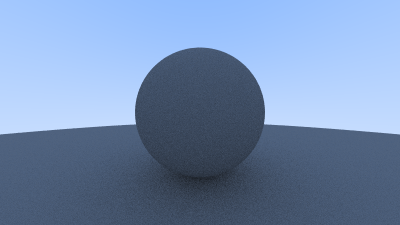
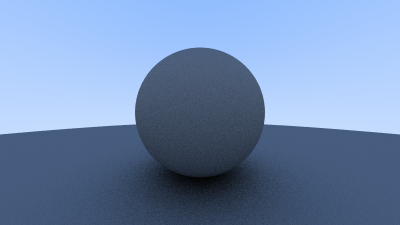
9.4: Lambertian reflections

Changed region(s): [[0.36, 0.7156, 0.63, 0.9644]]

diff --git a/src/raytracer.py b/src/raytracer.py
@@ -204,7 +204,8 @@ class Camera(eqx.Module):
 
         def march(step: MarchingStep) -> MarchingStep:
             key, new_key = jax.random.split(step.key)
-            direction = random_on_hemisphere(step.rec.normal, key)
+            # random_on_hemisphere(step.rec.normal, key)
+            direction = step.rec.normal + jax.random.ball(key, 3)
             new_ray = Ray(step.rec.p, direction)
             new_hit = scene.hit(new_ray, Interval(0.001, jnp.inf))
             new_depth = step.depth - 1
